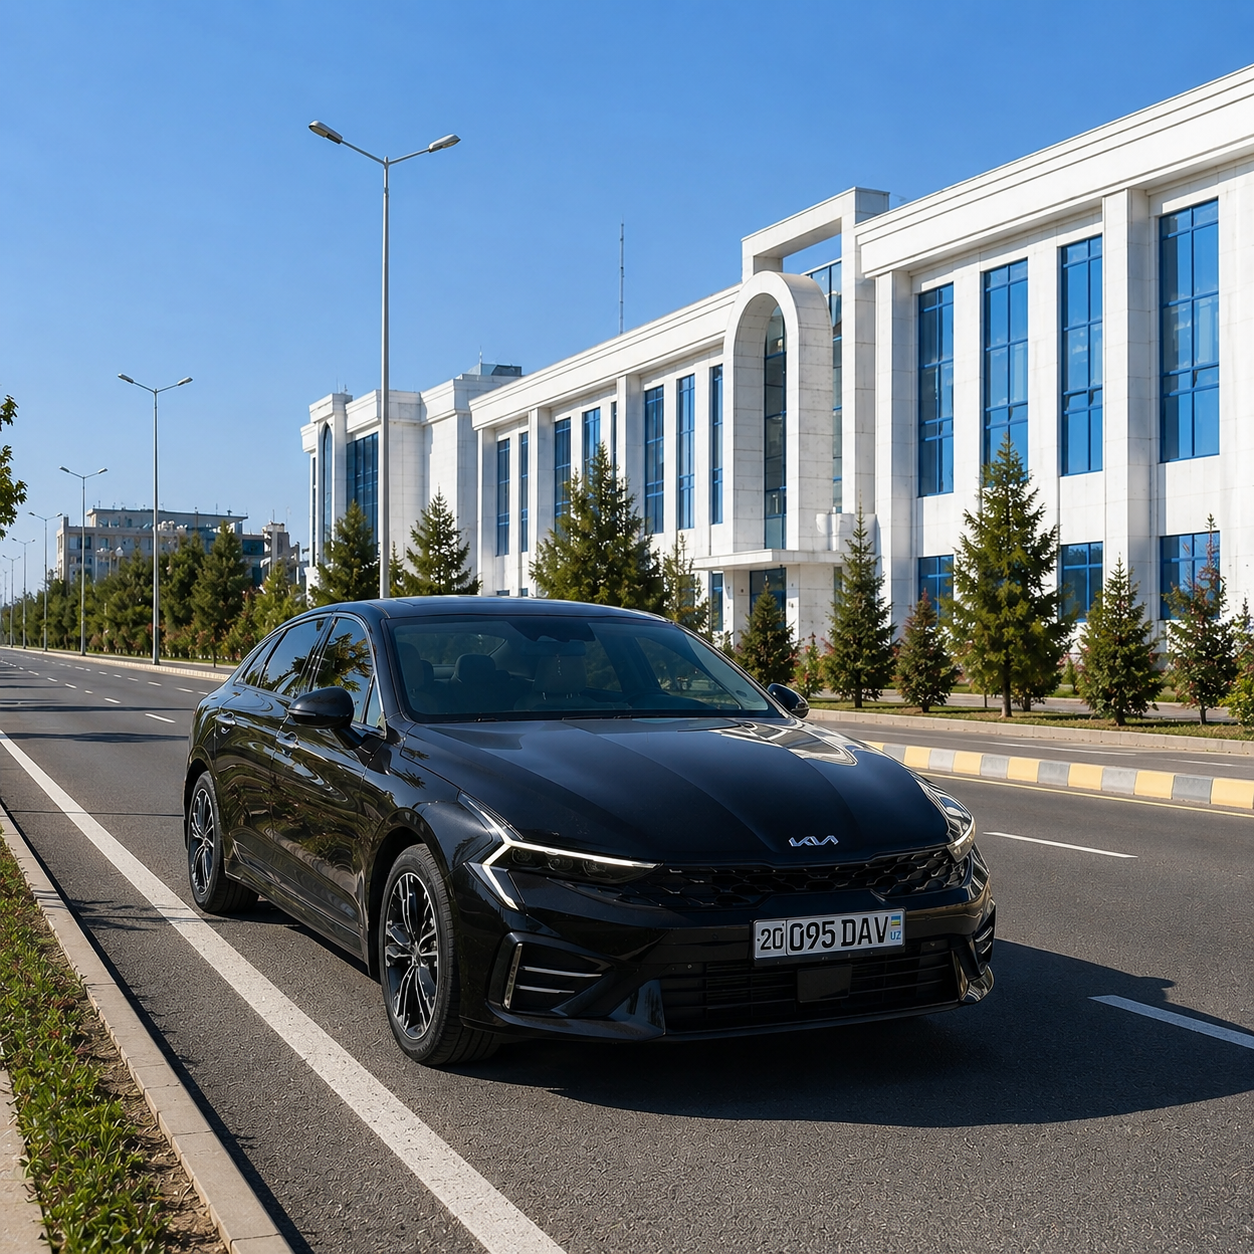
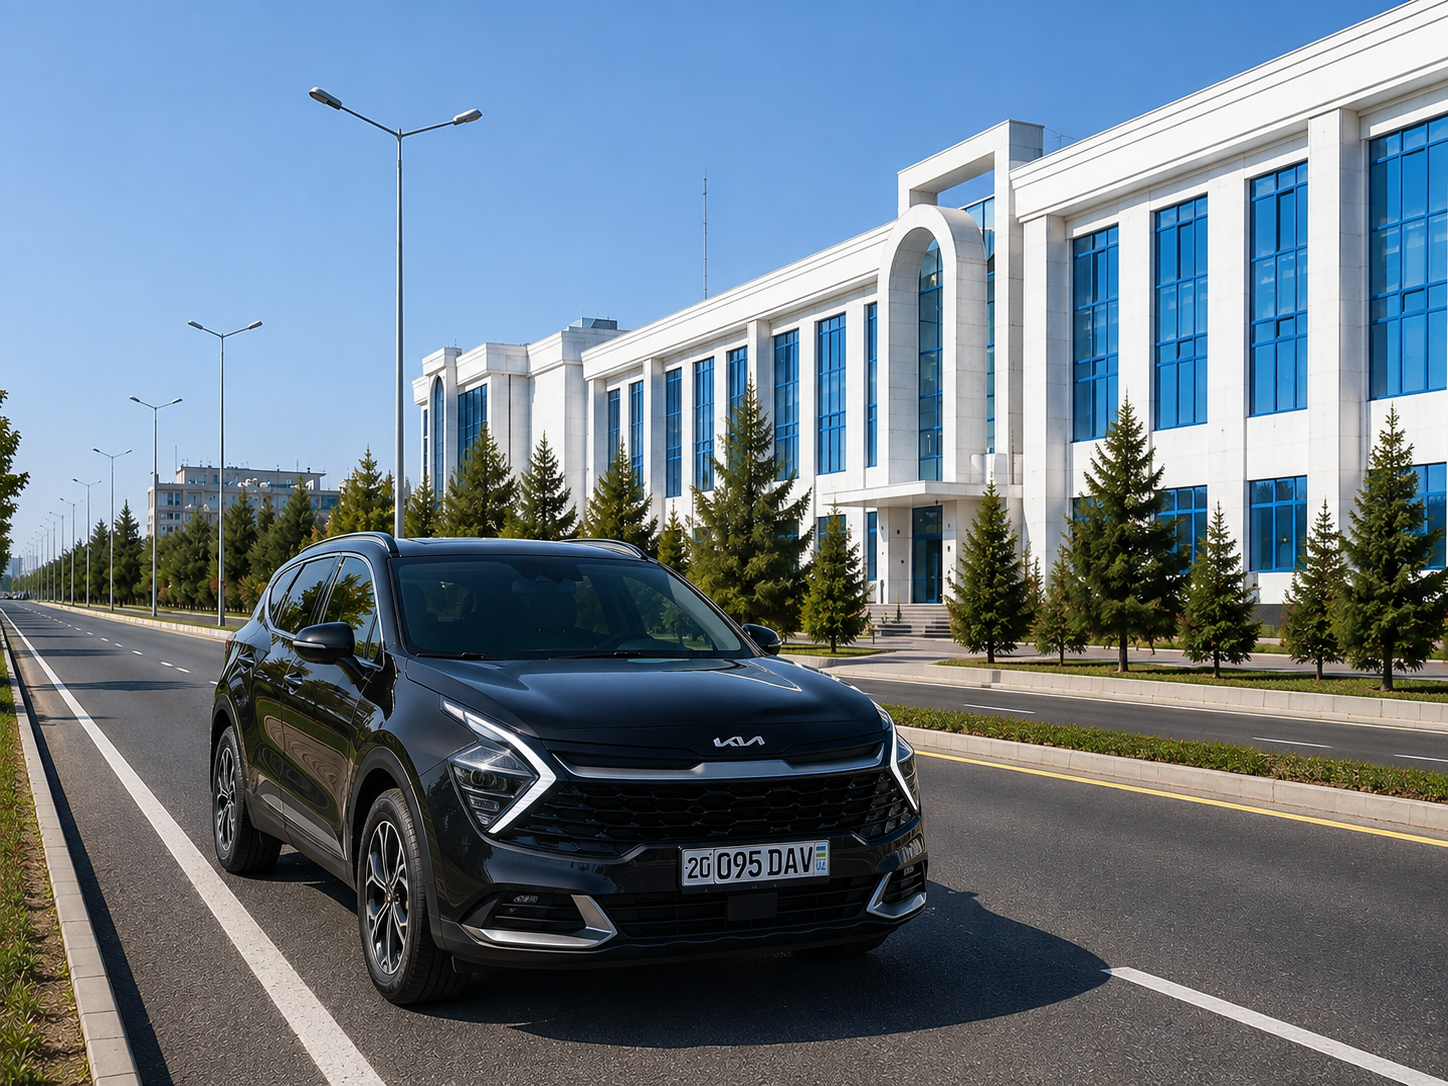
fix last

diff --git a/src/pages/Login/Login.jsx b/src/pages/Login/Login.jsx
@@ -143,8 +143,7 @@ export default function Login() {
       <Flex
         w={{ base: "100%", md: "50%", lg: "45%", xl: "40%" }}
         h="100vh"
-        align
-        ="center"
+        align="center"
         justify="center"
         p={{ base: 6, sm: 10, md: 12 }}
         bg="surface"
